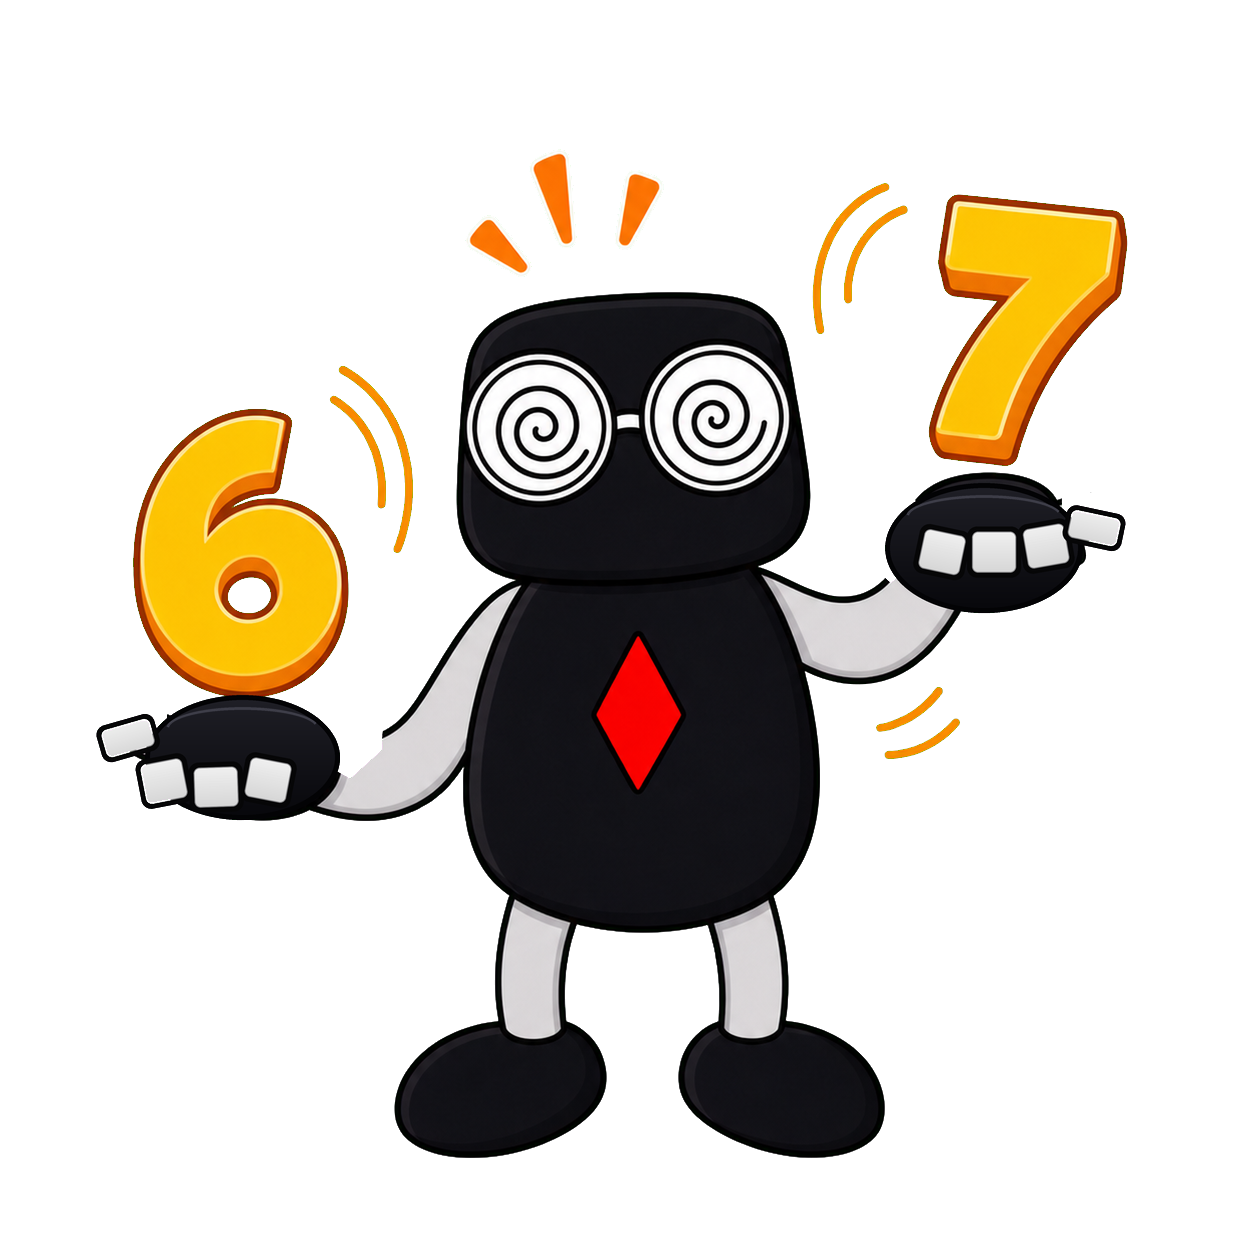
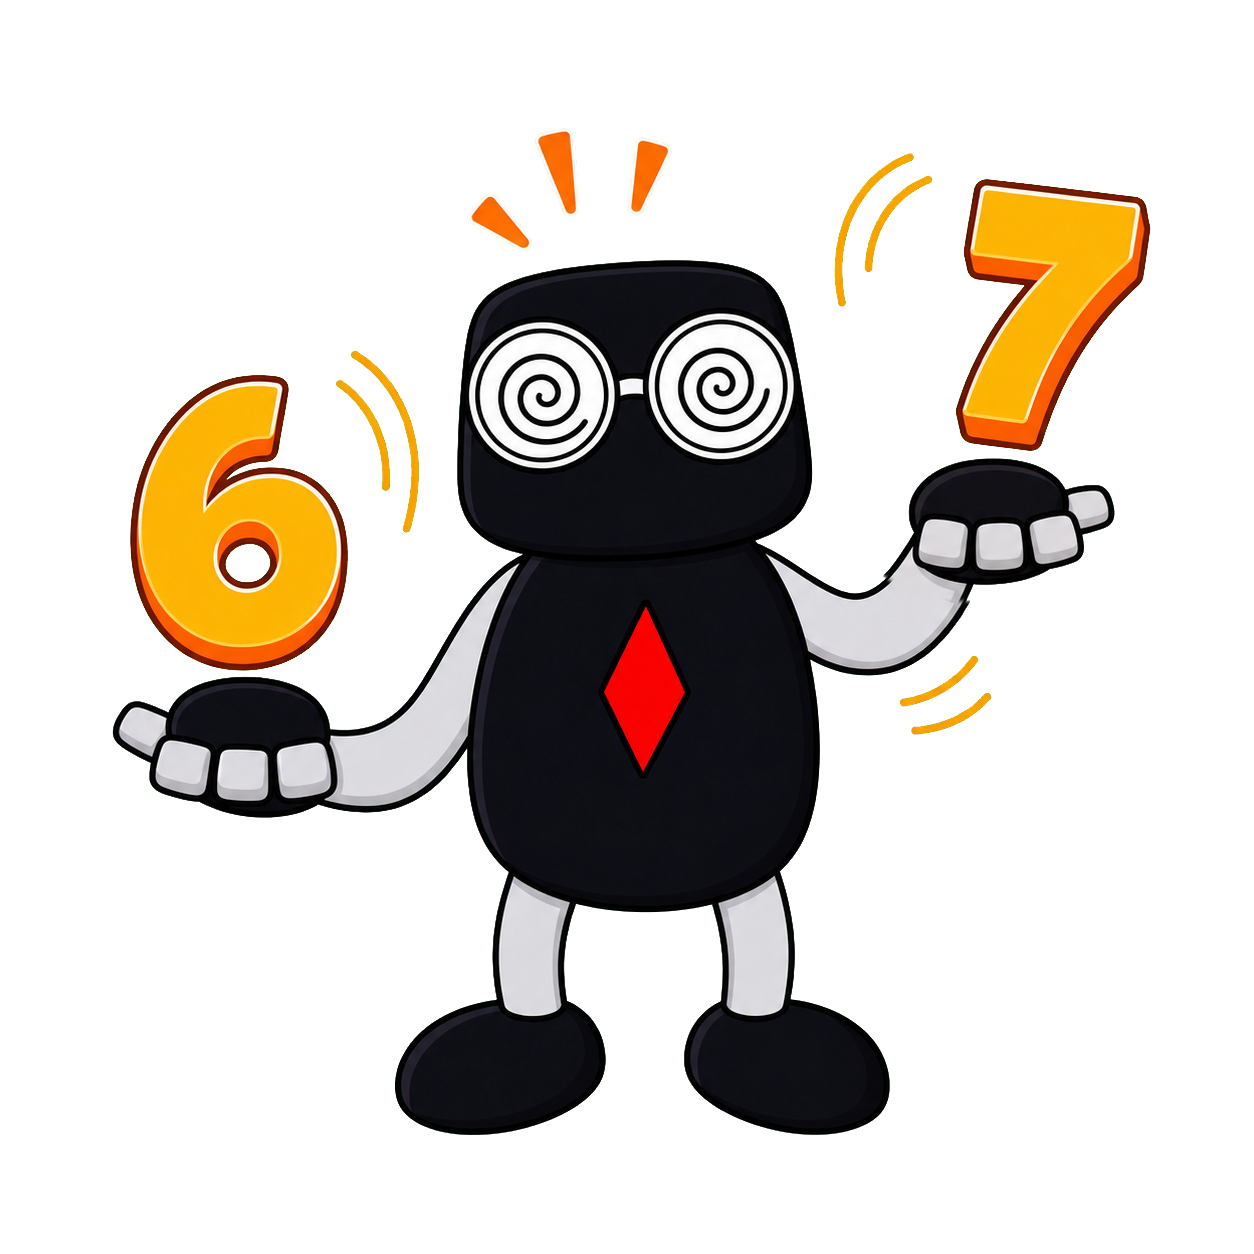
feat: correct sixseven hand counts

diff --git a/archive/generated-iterations/v1-size-blocky-full/NOTES.md b/archive/generated-iterations/v1-size-blocky-full/NOTES.md
@@ -20,4 +20,4 @@ Review notes:
 - `gasp` is still the copied candidate from `v1-size-blocky-fingers`; its hand count and scale are useful, but it still has unwanted internal arm crease lines.
 - `greetings` and `handraise` were updated after review so they no longer share the same silhouette: `greetings` uses a wider side-wave arm angle, while `handraise` uses a near-vertical raised arm and tip-toe/stretch posture.
 - `wrong` was updated after review to make the pose carry the meaning: both arms cross in front of the body, with the red X kept off to the side as emphasis.
-- `sixseven` was added as a 6-7 meme candidate: T Krobot juggles a `6` and `7` with hands at different levels, spiral glasses, and frantic motion marks. It was restored to the stronger 3D-number version from the earlier front-facing pass, then the hands were locally redrawn so each hand has exactly four visible light-grey tabs total: three fingers plus one thumb, with no fifth nub.
+- `sixseven` was added as a 6-7 meme candidate: T Krobot juggles a `6` and `7` with hands at different levels, spiral glasses, and frantic motion marks. It now follows the stronger attached 3D-number candidate: fingers stay in front of the palms, the lower hand keeps its outer-left thumb plus three front cuboid fingers, the upper hand keeps its outer-right thumb plus three front cuboid fingers, and both extra inner side nubs are removed.
